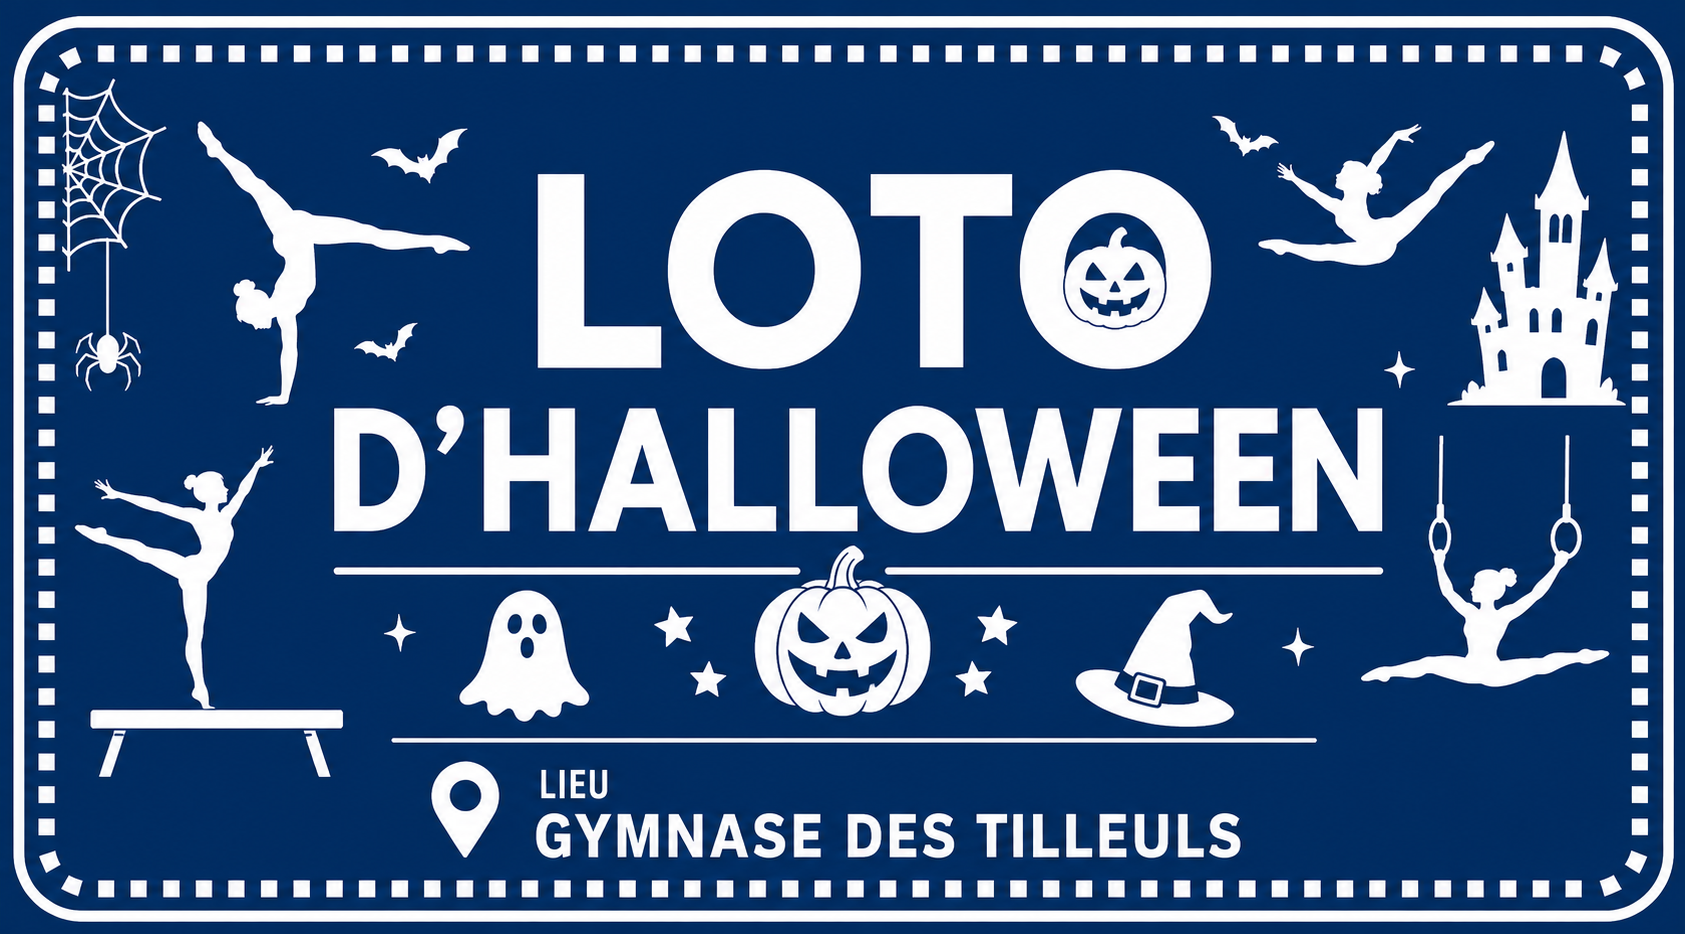
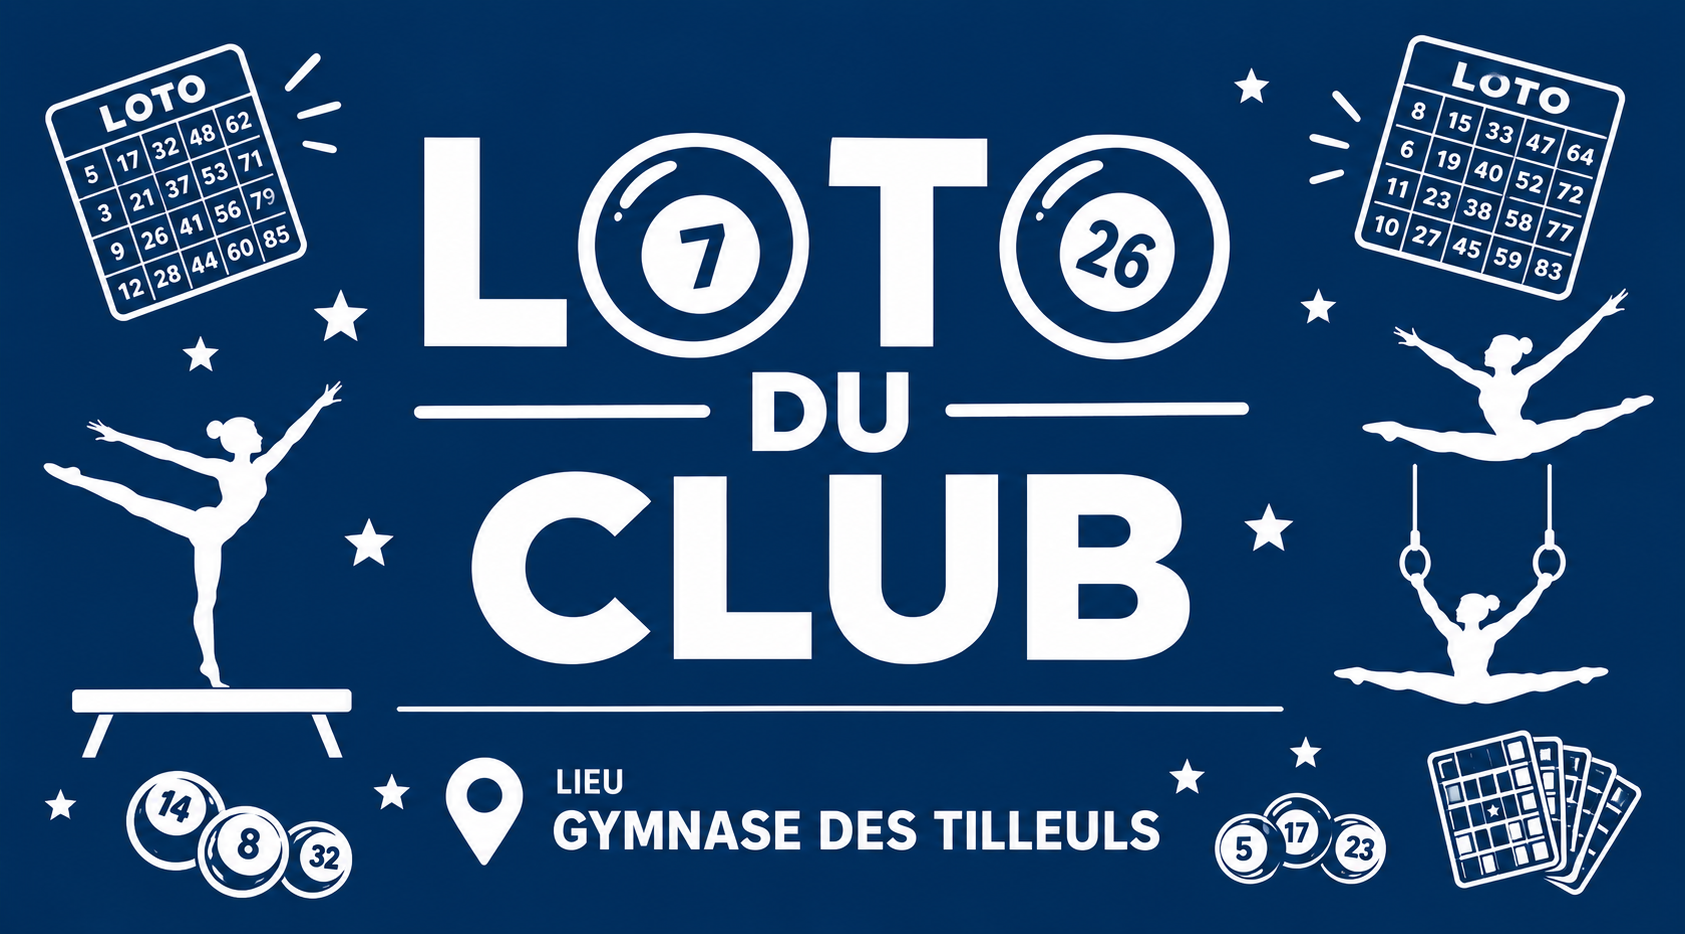
corrections

diff --git a/data/actualites.js b/data/actualites.js
@@ -7,27 +7,7 @@
 
 const ACTUALITES_DATA = [
   {
-    id: "assemblee-generale",
-    title: "Assemblée Générale",
-    date: "25/09/2026",
-    category: "Événement",
-    lieu: "",
-    emoji: "📋",
-    image: "",
-    excerpt: "Venez choisir le prochain bureau du club !"
-  },
-  {
-    id: "reservation-justaucorps",
-    title: "Réservations justaucorps",
-    date: "avant le 30/09/2026",
-    category: "Événement",
-    lieu: "",
-    emoji: "🏃",
-    image: "",
-    excerpt: "Achetez vos justaucorps avant le 30 septembre 2026 !"
-  },
-  {
-    id: "loto d'halloween",
+    id: "loto",
     title: "loto du club",
     date: "date bientot disponnible",
     category: "Événement",
@@ -53,7 +33,7 @@ const ACTUALITES_DATA = [
     category: "Événement",
     lieu: "Gymnase Fond Calde",
     emoji: "🎪",
-    image: "",
+    image: "assets/evenements/fetenoel.png",
     excerpt: "La fête de Noël du Céret Gym Club !"
   },
   {

diff --git a/boutique.html b/boutique.html
@@ -37,7 +37,7 @@
           <div class="about-story-text reveal">
             <p>Justaucorps de compétition manches longues, tissu bleu marine intégralement strassé, coupe technique pensée pour la gymnastique artistique féminine.</p>
             <p>Modèle sélectionné avec les entraîneurs pour représenter les couleurs du club lors des compétitions.</p>
-            <b>!!! Si votre justocorp des années précédentes est trop petit, ramenez-le aux coach avant le 13 SEPTEMBRE 2026 !!!.</b>
+            <b>!!! Si votre justaucorp des années précédentes est trop petit, ramenez-le aux coach avant le 13 SEPTEMBRE 2026 !!!.</b>
             <div class="tarif-price"><span>€</span>95</div>
             <p class="tarif-period">par justaucorps</p>
             <a href="https://www.helloasso.com/associations/ceretgymclub" class="btn btn-primary">Commander sur Hello-Asso</a>

diff --git a/index.html b/index.html
@@ -125,7 +125,6 @@
   <div id="footer-placeholder"></div>
 
   <script src="data/club.js"></script>
-  <script src="data/partenaires.js"></script>
   <script src="data/actualites.js"></script>
   <script src="assets/js/cookie-consent.js"></script>
   <script src="assets/js/components.js"></script>

diff --git a/data/club.js b/data/club.js
@@ -58,7 +58,7 @@ const CLUB_DATA = {
   stats: [
     { num: "200+", label: "Adhérents" },
     { num: "2",   label: "Disciplines" },
-    { num: "5",   label: "Entraîneuses" },
+    { num: "2",   label: "Entraîneuses" },
     { num: "20+", label: "Créneaux / semaine" }
   ]
 
